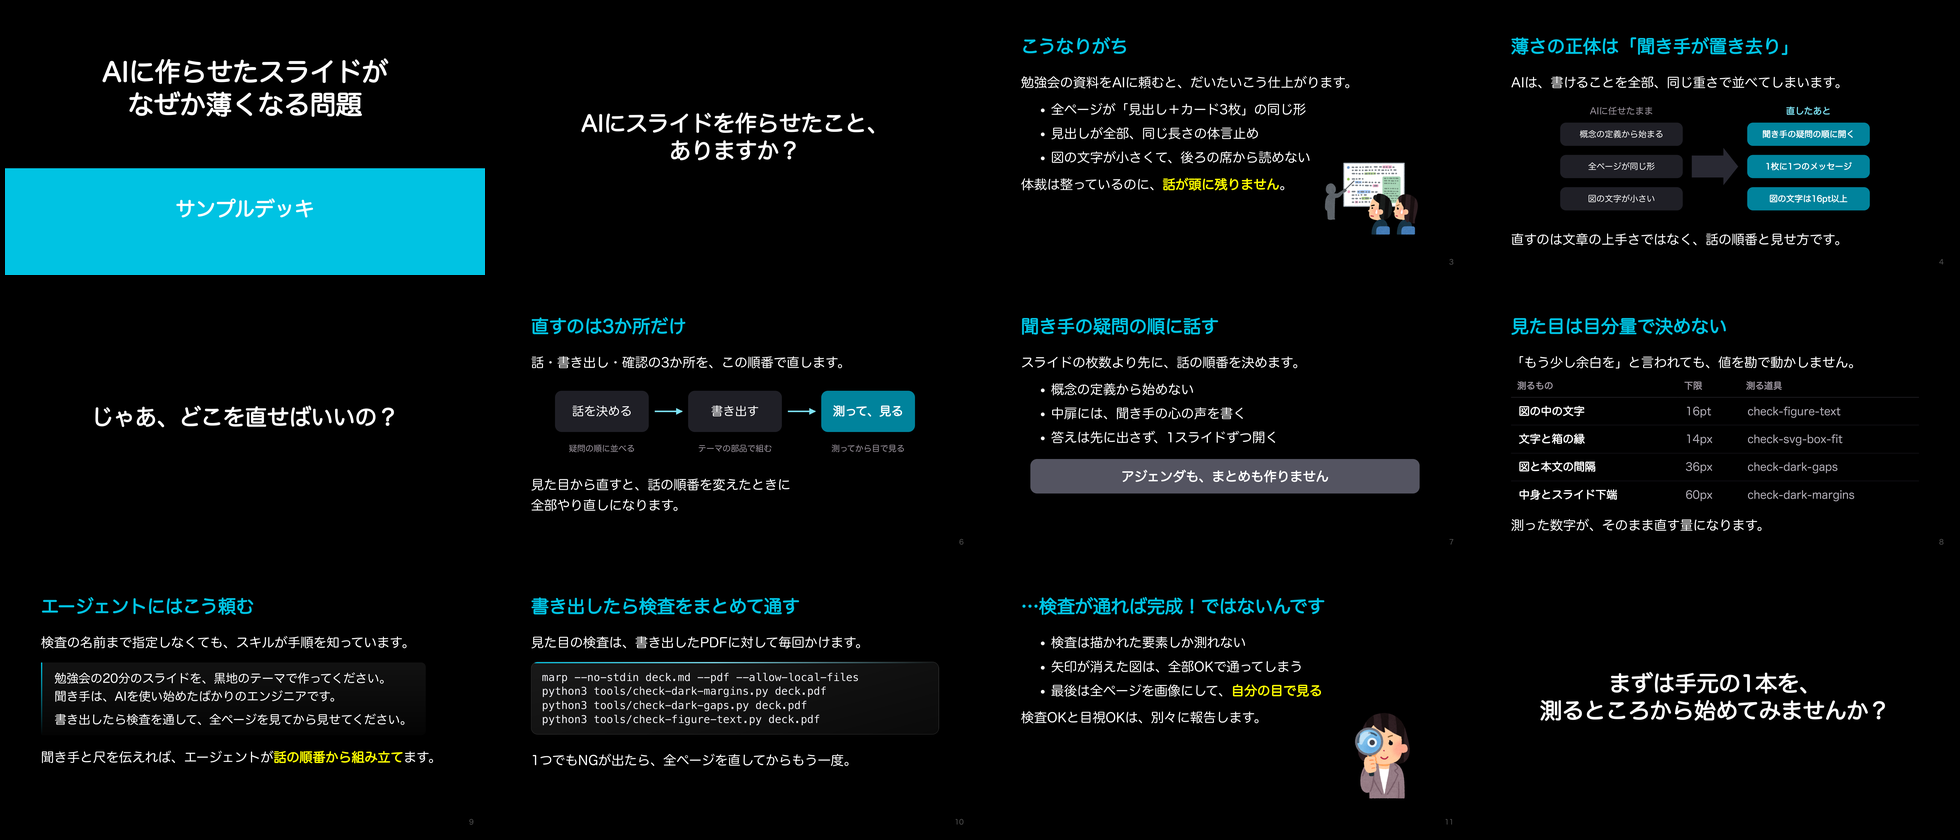
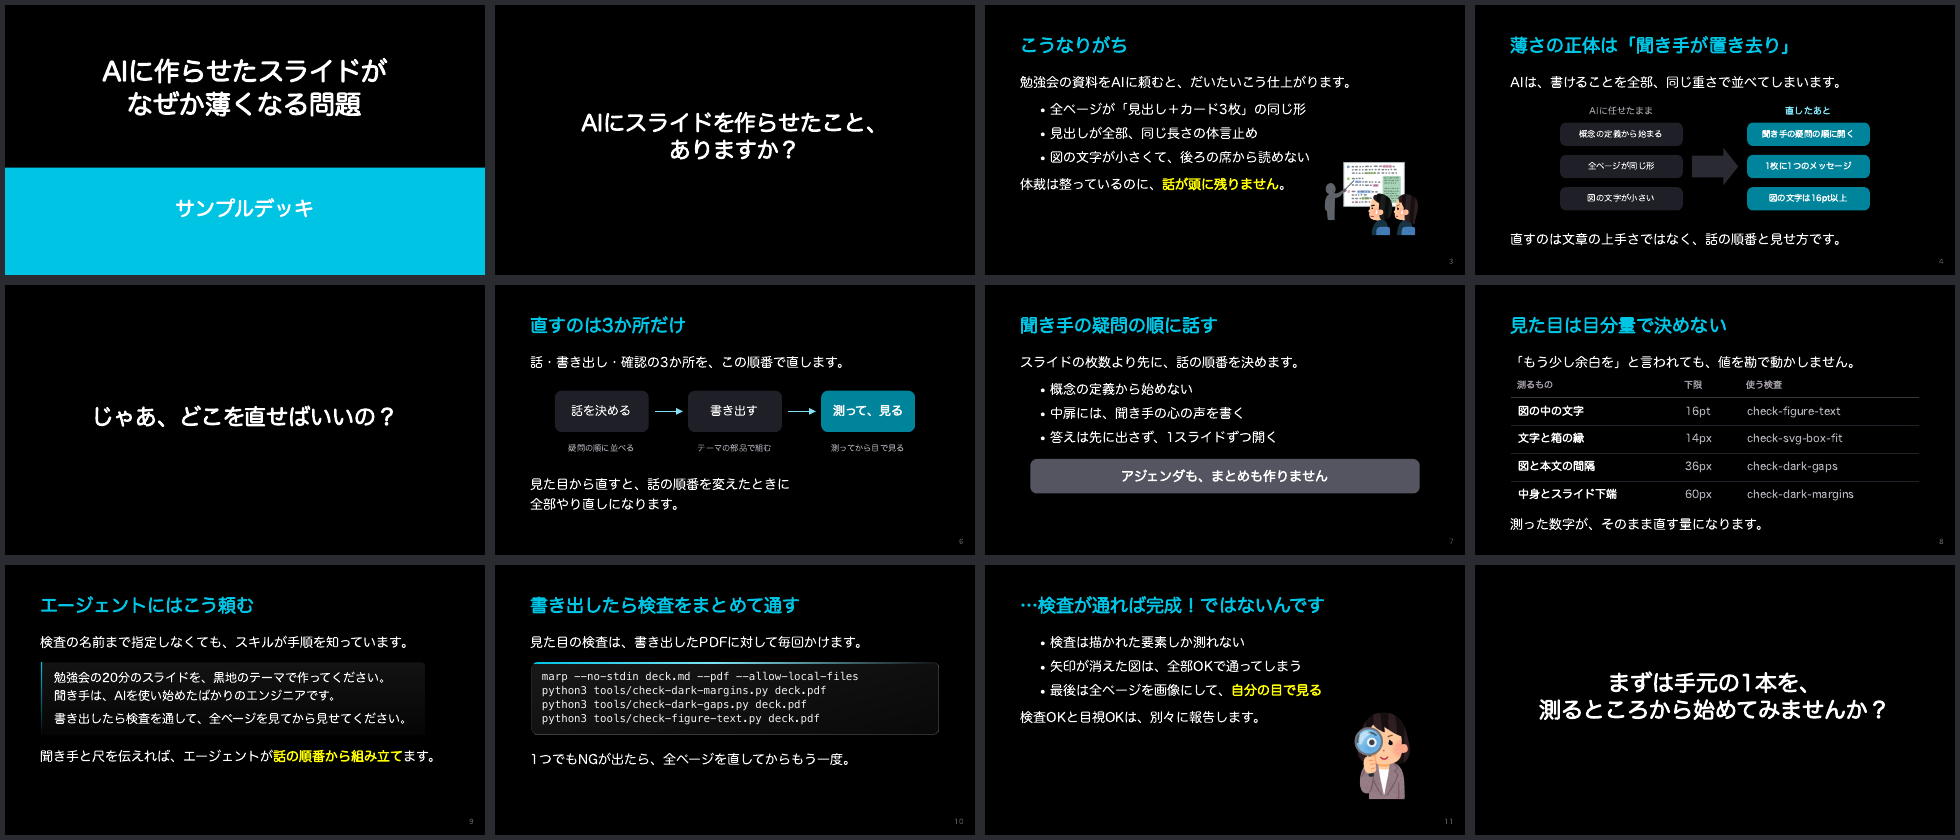
中扉・締め方・スクリーンショット・物の余白の規則と、種明かしの文の検査を足す

diff --git a/tools/check-ai-smell.py b/tools/check-ai-smell.py
@@ -26,6 +26,10 @@ PATTERNS = [
     ("ダッシュ", r"—|──|―", "使わない。読点か文の分割にする"),
     ("定番の誇張語", r"一気に|驚くほど|劇的に|目に見えて|一撃で|腑に落ち", "平明な語に言い換える"),
     ("行頭の太字ラベル", r"^\s*[-*] \*\*", "箇条書きごと地の文へ戻す"),
+    ("口語のつなぎ", r"ますし、|ですし、|ますし$|ですし$", "「〜ますし、」は話し言葉。文を切って「〜です。〜も可能です。」にする"),
+    ("相手への問いかけ", r"^(?!\s*#).*(いただけますか|ありますか|でしょうか|どちらで|よいか)？", "相手への依頼を「？」で問いかけない。「〜いただけますと幸いです」で書く（見出しで聴衆へ投げる問いかけは対象外）"),
+    ("前置きと種明かし", r"わけではなく|わけじゃなく|だけでした|のではなく、", "状況を言い切ってから「AではなくBだけでした」と種明かしする流れにしない。何が起きて、だから何に困るかを普通の順で書く"),
+    ("道具", r"道具", "作ったもの・紹介するものを「道具」と呼ばない。ツール・アプリ・スクリプトなど実物の種類か、文脈に合う語にする"),
 ]
 
 

diff --git a/skills/slide-figures/SKILL.md b/skills/slide-figures/SKILL.md
@@ -18,6 +18,9 @@ AIが作る図の失敗は、ほぼすべて「いらない情報を足しすぎ
 骨子や初版を見せる段階から、説明のスライドは図で組んで出す。文字と表だけの版を「図は後で入れる」として見せない。講義のスライドは図が主役で、文字だけの版は中身が合っていても品質が低いと受け取られる。説明のスライドは「見出し＋1行＋版面いっぱいの図」を既定にし、図の要点を表す挿絵も最初の版から入れる。
 
 デッキを組んだら、図も画像も無い本文スライドを数える。流れ・分岐・対比・分担・繰り返しを文章で書いているものは、見せる前に図へ直し、本文は図の意味を言う1行までに減らす。ただし、文を箱と矢印へ置き換えただけの図では足りない。描く前に、図ごとに「文では伝わらず、絵なら伝わるもの」を1つ決める（量の差なら高く積んだ書類の山と数枚の紙、待ちの有無なら長い行列と空いた窓口）。図の主役のラベルは、そこで起きている働きを正確に言う語にする。
+画面の機能や仕組みを、文だけのスライドで説明しない。「どの数字も元のファイルの行までたどれる」のような機能は、スクリーンショットか、画面とファイルを並べた簡単な図で見せ、文は図の下の1〜2行にする。文だけだと、聞き手は何の話か思い浮かべられない。
+
+図の説明を、図の下の小さい添え字や次のスライドの文で済ませない。箱ごとに2行の添え字を付けたり、「②を直す」のように前の図の番号を引いたりすると、読めないうえに聞き手が前のスライドを思い出す必要がある。同じ図を数枚続け、1枚ごとに注目する所だけ濃くして他を薄くし、吹き出しを置く場所を動かして視線を運ぶ（パラパラ漫画の要領）。説明の文は吹き出しの中の1〜2行へ移し、図の外に小さい文字を残さない。
 
 ### 図の形は中身の種類で選ぶ
 
@@ -101,6 +104,7 @@ AIが作る図の失敗は、ほぼすべて「いらない情報を足しすぎ
 - 配線は升目で組む。列と行の中心を先に決めてアイコンを交点に置き、線は水平と垂直だけで引く。1つの起点から複数の経路へ分けるときは、起点の横に縦の幹線を1本立てて各行へ水平に分ける。線の端はアイコンの辺の中点に着け、角に斜めから刺さない
 - データベースは物理の単位を名指しする。技術者の読み手に「3つの層」のような概念だけを見せると、インスタンス・データベース・スキーマ・テーブルのどれが分かれているのか分からない。外枠にエンジンと台数を書き、層がスキーマなのかテーブル名の接頭辞なのかを明記し、各層に実物のテーブル名を並べる
 - クラウドのアイコンは公式のアイコンセットを使う。似た色のブランドロゴで代用しない。製品名を略して別の製品と同じ表記にしない
+- クラウドの製品（ストレージ・データベース・分析基盤・BIツールなど）が出てくる図は、名前の箱で済ませず公式のサービスアイコンを置く。AWS 以外も同じで、Azure は Microsoft Learn の「Azure architecture icons」、Power BI は Microsoft Fabric の公式アイコン一式に入っている（Power Platform の一式には入っていない）。どちらも図や研修資料での利用が許されており、切り抜き・反転・変形は禁止されている
 - インフラ（実行基盤）は、上に載るものの下に敷く土台として描く。載るものを箱で並べ、ラベルに基盤の名前を書くだけでは関係が伝わらない。載るもの同士の関係（呼び出しのプロトコルなど）は、土台の上で矢印と札でつなぐ。実際に別々のインスタンスなら、土台も1つずつ分ける。1本の長い土台にすると、全部が同じ基盤に載っているように伝わる
 - 手持ちに無いアイコンを、四角や記号を描いて自作しない。公式の一式（サービスのアイコンと、ブラウザ・ユーザー・フォルダなどの汎用アイコン）を手元に置き、ファイル名で引いて、使う分だけ資料のフォルダへコピーしてから埋め込む。別のリポジトリのパスに依存させない。他社のサービスはロゴを作らず、汎用アイコンとサービス名の文字で表す
 
@@ -125,6 +129,10 @@ AIが作る図の失敗は、ほぼすべて「いらない情報を足しすぎ
 - 左右に分けたページの本文と画像は上揃えにし、見出しの直下から始める。縦中央に揃えるのは図形の中の文字だけで、本文を縦中央に置くと浮いて見える
 - アイコンは高解像度の原本から取る。小さいスクリーンショットからの切り出しを拡大するとぼける
 - 余白を残す。詰めて収めるより、箱を大きく、間隔を広く、要素を少なくする
+- 全ページに繰り返す小さな飾り文字（名前・ハンドル・イベント名・ラベル）を、ヘッダーやフッターに入れない。名前とハンドルは表紙と自己紹介で1回ずつ出せば足り、締めのスライドでも繰り返さない
+- 「モダンにして」に、ラベルやチップの頭へ線のアイコン（メダル・マイク・王冠など）を添えて応えない。記号アイコンを文字の頭に並べるのは、機械が作った画面の典型の飾りになる。今風にする手段は、面の塗り方（影を外して淡い面で平らに塗る、グラデーションの細い線で囲む）と文字の色だけにする。「アイコンにして」と頼まれても飾りなしの案を先に並べ、アイコン案は入れても1案まで
+- 図の中の見出し（括りの線の上の言葉・列の見出し）は、面を敷かない地の文字にし、文字の下端と線・箱の間を30px以上あける。面を敷いたラベルは、すぐ下の線に貼り付いて見える。ラベルの形が要るのは、その言葉が図の部品として独立しているときだけ
+- 左から右へ「これを受け取る→これができる」のように対応させる図は、両側を同じ形の箱にし、結果の側を濃い面にする。列の見出しは、その列の箱の中央に揃える。片側だけ箱で、もう片側が素の文字だと、図が描きかけに見える
 - 大きな文の前後に、小さい文字を飾りとして並べない。タイトルの上の小さな英字ラベル、見出しや吹き出しの下の薄い補足行、途中から2段3段と小さくしていく文字は、どれも機械が作った資料に見える。言うことは1つの文にまとめ、文字の大きさは多くても2段にする。テンプレートを使わない1枚ものの紹介スライドでも同じ
 
 ## SVGの実装
@@ -153,6 +161,7 @@ SVGの `<marker>` は既定が `markerUnits="strokeWidth"` なので、矢尻の
 - 線は矢尻の3倍以上の長さを取る
 - ラベルは矢印から10px以上離す
 - 図形が近すぎると、矢印の軸が隠れて矢尻しか見えなくなる
+- 番号バッジ・矢印の札・名前は、線とも他の文字とも12px以上離し、線の上に置く札は線との隙間を全部の図でそろえる（目安14px）。重なりだけを見る検査は、線に張り付いた札を通してしまう。1か所見つけたら、全部の図で同じ状態の箇所を直す
 
 ### グラデーション
 
@@ -274,6 +283,23 @@ rg -o --no-filename 'irasutoya-[^")\s/]+\.png' slides/ | sort | uniq -c | sort -
 ```
 
 `bottom` の値はスライドごとに、本文の下端からスライドの下端までの空きを測って決める。
+
+## スクリーンショットを載せるとき
+
+- 自分たちのページやアプリの画面が古いデザインのままなら、枠だけ新しくして撮らない。中身まで今の型で作り直し、公開し直してから撮る。古いページを撮ると、新しいデッキの中でそこだけ古く見える
+- 何のページか分かる見出し（ロゴ・名前・ページのタイトル）を入れて切り、中身が読める大きさまで拡大する。ページ全体を縮めて載せると、何の画面か分からず字も読めない。一覧なら見出しと最初の数件だけを切り出し、ページの片側に大きく置いて、文は反対側へ回す
+- 聞き手が「いつものあの画面だ」と分かる範囲と、そのスライドで言いたいことの両方が入るように切る。比較のページなら説明と実物を上下に並べた所、レポートならタイトルと要約の所。結果の部分だけや、スマホ幅の細い切り抜きにしない。部品だけを並べたいときはページ上で要素を集め直し、PC幅で外側の余白ごと撮る
+- 撮るときはビューポートを1280px前後にし、左右の余白が対称に残る範囲で切る。スライドへ縮めたときに本文の文字が読めるかも、書き出した画像で確かめる
+- 画面の操作の流れ（「〜と頼むと、〜が並行に進む」）は文字だけで説明せず、実際の画面か、似せた画面のモック画像を添える
+- 設定ファイルなどの引用は、エディタの窓の形（タイトルバーにファイル名）で見せる。行番号は実物に無い数字になるので付けない
+- PCとスマホの画面を並べた合成画像は、1枚のまま枠・影・角丸を付けて置かない。合成画像の余白ごと影が付き、後ろに透明な板があるように見える。画面ごとに切り出して別々の画像にし、それぞれに影（透過PNGなら `filter: drop-shadow`）を付けて大きく並べる
+- 片側に画像・反対側に文を置くページでも、文の行頭は本文の左端にそろえる。ページごとに文を中へ寄せると、めくったときに行頭が揺れて見える。本文と画像の間と、まとまり全体の左右の空きもそろえる。間だけ広く空くと、真ん中の大きな空白に見える
+
+## 物を本文に挟むときの余白
+
+画像・引用の窓・吹き出し・表を文章の間に置くときは、物の上と下の余白を、段落と段落の間（1行ぶん）と同じにそろえる。テーマや部品の既定の余白は物ごとにばらばらで、そのまま置くと物の前後だけ詰まり、上下で不揃いに見える。見出しの直下に箇条書きや図がすぐ来るページには、リード文を1〜2行はさむ（パロディや中扉のように、元の型にリード文が無いページは除く）。
+
+吹き出しで画面や図を指すときは、しっぽの先を対象の端から14〜30pxに置く。くっつけると窮屈に見え、離しすぎると何を指すか分からない。吹き出しを端に寄せたまま画像を小さくすると、間が大きく空いて指す先が分からなくなる。
 
 ## 公開ページから図を借りるとき
 

diff --git a/examples/sample/deck.md b/examples/sample/deck.md
@@ -111,7 +111,7 @@ AIは、書けることを全部、同じ重さで並べてしまいます。
 
 「もう少し余白を」と言われても、値を勘で動かしません。
 
-| 測るもの | 下限 | 測る道具 |
+| 測るもの | 下限 | 使う検査 |
 | --- | --- | --- |
 | 図の中の文字 | 16pt | check-figure-text |
 | 文字と箱の縁 | 14px | check-svg-box-fit |
